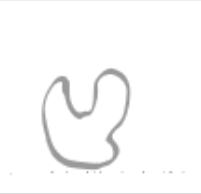
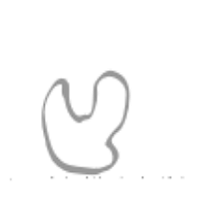
reputation tracker component initial styling, borders in play area

Changed region(s): [[0.0, 0.9897, 1.0, 1.0]]

diff --git a/src/app/game/sheet-components/reputation-tracker/reputation-tracker.component.scss b/src/app/game/sheet-components/reputation-tracker/reputation-tracker.component.scss
@@ -1,0 +1,28 @@
+.rep-row{
+    display:flex;
+    justify-content: space-between;
+    width:100%;
+    .rep-cell{
+        text-align: center;
+        border-radius: px;
+        width: 100%;
+        &--rep-line{
+            border-right: black 2px solid;
+            box-shadow: 2px 0px 5px -3px #616161;
+        }
+    }
+    &--bottom{
+        border-top: rgb(150, 141, 145) 1px solid;
+    }
+}
+
+.reputation-tracker{
+    &--container{
+        border: rgb(150, 141, 145) 1px solid;
+        border-top-left-radius: 255px 15px;
+      border-top-right-radius: 15px 225px;
+      border-bottom-right-radius: 225px 15px;
+      border-bottom-left-radius:15px 255px;
+      box-shadow: 0 0 1px 0 black inset, 0 0 1px 0 black;
+    }
+}

diff --git a/src/app/game/game-board.component.scss b/src/app/game/game-board.component.scss
@@ -1,20 +1,26 @@
 .board-area{
     display: grid;
-    grid-template-columns: auto auto auto;
-    grid-template-rows: auto auto auto;
+    grid-template-columns: auto 105vh auto;
+    grid-template-rows: auto 85vh auto;
+    position: absolute;
+    height:95%;
+    width:95%;
+    overflow: hidden;
 
     app-reputation-tracker{
         grid-row: 1;
-        grid-column: 2;
+        grid-column: 1/span 3;
     }
 
     app-game-map{
+        display: flex;
+        min-height: 0px;
         grid-row: 2;
         grid-column: 2;
     }
     
     app-round-tracker{
         grid-row: 3;
-        grid-column: 2;
+        grid-column: 1/span 2;
     }
 }

diff --git a/src/app/game/sheet-components/reputation-tracker/reputation-tracker.component.html b/src/app/game/sheet-components/reputation-tracker/reputation-tracker.component.html
@@ -1,1 +1,14 @@
-<p>reputation-tracker works!</p>
+<div class="reputation-tracker--container">
+    <div class="rep-row rep-row--top">
+        <div class="rep-cell" [ngClass]="{'rep-cell--rep-line': hasTransitionBorderRight(rep)}"
+            *ngFor="let rep of repValues | slice:0:39">
+            {{rep}}
+        </div>
+    </div>
+    <div class="rep-row rep-row--bottom">
+        <div class="rep-cell" [ngClass]="{'rep-cell--rep-line': hasTransitionBorderRight(rep)}"
+        *ngFor="let rep of repValues | slice:39">
+            {{rep}}
+        </div>
+    </div>
+</div>

diff --git a/src/app/game/sheet-components/reputation-tracker/reputation-tracker.component.ts b/src/app/game/sheet-components/reputation-tracker/reputation-tracker.component.ts
@@ -7,9 +7,26 @@ import { Component, OnInit } from '@angular/core';
 })
 export class ReputationTrackerComponent implements OnInit {
 
-  constructor() { }
+  public currentRep: number = 0;
+  public repValues: number[];
+
+  constructor() { 
+    this.repValues = this.makeRepValues();
+  }
 
   ngOnInit(): void {
+  }
+
+  public hasTransitionBorderRight(rep: number){
+    return (rep % 3 === 0);
+  }
+
+  private makeRepValues(): number[]{
+    const result = [];  
+    for (let i = -23; i<55; i++){
+        result.push(i);
+      }
+    return result;
   }
 
 }

diff --git a/src/app/game/sheet-components/game-map/game-map.component.scss b/src/app/game/sheet-components/game-map/game-map.component.scss
@@ -2,10 +2,18 @@
     display: flex;
     flex-direction: column;
     &__row{
+        min-height: 0;
         display:flex;
-        width:auto
     }
     &__cell{
-
+        border: lightgrey 1px solid;
+        user-select: none;
+        &:hover{
+            background-color: rgb(235, 100, 100);
+            box-sizing: border-box;
+            &:active{
+                background-color: royalblue;
+            }
+        }
     }
 }

diff --git a/src/app/game/sheet-components/map-tile/map-tile.component.scss b/src/app/game/sheet-components/map-tile/map-tile.component.scss
@@ -1,4 +1,10 @@
-img{
-    max-width: 2rem;
-    max-height: 2rem;
+img {
+    width: 100%;
+    padding-right: auto;
+}
+
+.image_wrapper {
+    position: relative;
+    width: 100%;
+    padding-right:auto;
 }

diff --git a/src/app/game/sheet-components/map-tile/map-tile.component.html b/src/app/game/sheet-components/map-tile/map-tile.component.html
@@ -1,1 +1,3 @@
+<div class="image_wrapper">
 <img src={{imagePath}} alt={{tileType}}>
+</div>
